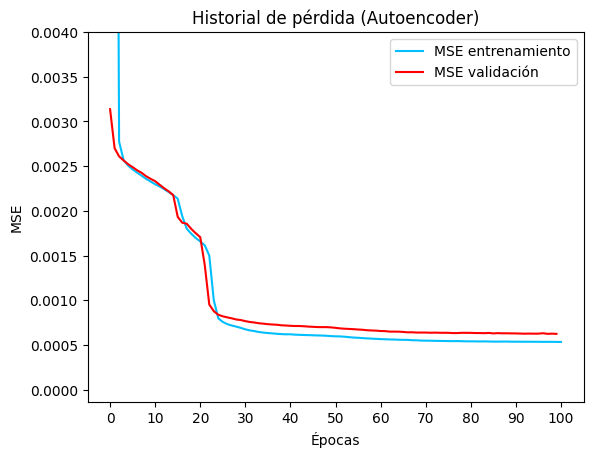
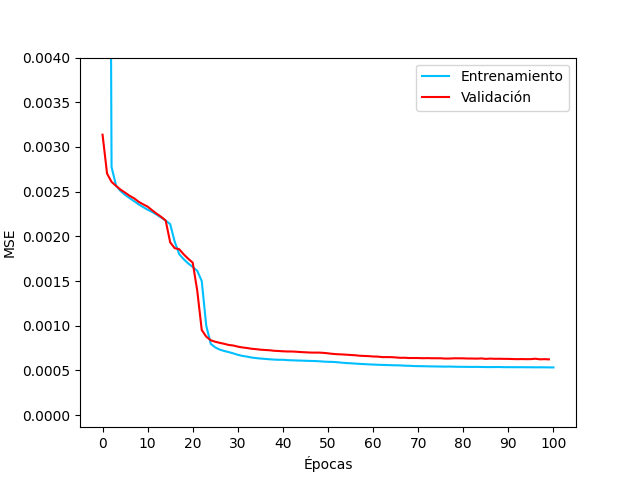
Se agregan descripciones al readme principal y descripciones al trabajo de deteccion de anomalias

Changed region(s): [[0.0, 0.0306, 1.0, 0.9803]]

diff --git a/DeteccionAnomalias_SistemasPlanetarios/Resultados.md b/DeteccionAnomalias_SistemasPlanetarios/Resultados.md
@@ -1,38 +1,33 @@
 ![](Images/portada.jpg)
-
-# Detección de anomalías de sistemas planetarios
-
-
+ Detección de anomalías de sistemas planetarios
 ---
-
+ 
 - [Detección de anomalías de sistemas planetarios](#detección-de-anomalías-de-sistemas-planetarios)
-  - [Introducción](#introducción)
-  - [Preprocesamiento](#preprocesamiento)
-  - [Análisis exploratorio](#análisis-exploratorio)
-    - [Histogramas](#histogramas)
-    - [Gráficas de dispersión](#gráficas-de-dispersión)
-  - [Selección de parámetros](#selección-de-parámetros)
-    - [IF y LOF](#if-y-lof)
-    - [Autodecodificador](#autodecodificador)
-  - [Resultados](#resultados)
-    - [Autodecodificador](#autodecodificador-1)
-    - [IF](#if)
-    - [LOF](#lof)
-    - [Anomalías detectadas](#anomalías-detectadas)
-  - [Conclusiones](#conclusiones)
+- [Introducción](#introducción)
+- [Preprocesamiento](#preprocesamiento)
+- [Análisis exploratorio](#análisis-exploratorio)
+  - [Histogramas](#histogramas)
+  - [Gráficas de dispersión](#gráficas-de-dispersión)
+- [Selección de parámetros](#selección-de-parámetros)
+  - [IF y LOF](#if-y-lof)
+  - [Autodecodificador](#autodecodificador)
+- [Resultados](#resultados)
+  - [Autodecodificador](#autodecodificador-1)
+  - [IF](#if)
+  - [LOF](#lof)
+  - [Anomalías detectadas](#anomalías-detectadas)
+- [Conclusiones](#conclusiones)
 
 ---
 
 ## Introducción
+
+
 Se importan el conjunto de datos proveniente de [https://exoplanetarchive.ipac.caltech.edu/docs/data.html ](https://exoplanetarchive.ipac.caltech.edu/docs/data.html). En este trabajo se realizará una detección de anomalías en las mediciones de los planetas mediante algoritmos de aprendizaje automático, entre los cuales se encuentran: 
 
 1. Isolation Forest (IF):
 2. Local Outlier Factor (LOF):
 3. Autodecodificadores: 
-
-
-
-
 
 
 ## Preprocesamiento
@@ -106,7 +101,7 @@ En lo que respecta al periodo orbital se muestra que el exoplaneta EPIC 24884749
 
 ### IF y LOF
 
-Los parámetros a escoger para trabajar con IF y LOF son el número de árboles de decisión y el número de vecinos respectivamente. Para determinar los valores adecuados se realizan las siguientes gráficas, dónde se muestran como varia el número de anomalías conforme el valor del respectivo parámetro cambia para determinar si existe alguna convergencia. 
+Los parámetros a escoger para trabajar con IF y LOF son el número de árboles de decisión y el número de vecinos respectivamente. Para determinar los valores adecuados se realizan las siguientes gráficas, dónde se muestran como varia el número de anomalías respecto al valor del variable a analizar, se espera determinar si existe alguna convergencia. 
 
 | ![](Imagenes/SeleccionParametros/Anomalias_vs_Trees.png) | ![](Imagenes/SeleccionParametros/Anomalias_vs_Vecinos.png) |
 | -------------------------------------------------------- | ---------------------------------------------------------- |
@@ -120,17 +115,16 @@ Al analizar la gráficas de convergencia se decide seleccionar 100 árboles de d
 
 ### Autodecodificador
 
-Una red autocodificadora recibe de entrada los datos a analizar, pasa por una serie de capas las cuales van disminuyendo gradualmente el número de neuronas para poder comprimir la información en un espacio latente, para luego descomprimirla en un proceso inverso. En la siguiente figura se esquematiza la arquitectura empleada para este trabajo, donde las capas son representadas mediante rectángulos azules dónde la parte superior indica el número de neuronas que poseen. Se emplearon funciones de activación *tanh* en las capas ocultas. Se usa MSE como función de pérdida. El espacio latente lo podemos emplear para la representación en dos dimensiones de nuestros datos.
+Una red autocodificadora recibe de entrada los datos a analizar, pasa por una serie de capas, las cuales van disminuyendo gradualmente el número de neuronas para poder comprimir la información en un espacio latente, para luego descomprimirla en un proceso inverso. En la siguiente figura se esquematiza la arquitectura empleada para este trabajo, las capas son representadas mediante rectángulos azules dónde la parte superior indica el número de neuronas que poseen. Se emplearon funciones de activación *tanh* en las capas ocultas. Se usa MSE como función de pérdida. El espacio latente lo podemos emplear para la representación en dos dimensiones de nuestros datos.
 
-Podemos usar una red autodecodificadora para detectar anomalias si consideramos aquellos datos que tengan mayor error al momento de la reconstrucción, es decir, a la red le costará más trabajo decodificar aquellos exoplanetas que no sean tan comunes, pues el conjunto de sus características no se presentan a menudo. 
-
+Podemos usar una red autodecodificadora para detectar anomalías si consideramos que aquellos datos que resulten más difícil de reconstruir, es decir los que cuenten con un alto valor de MSE, son anormales, es decir, a la red le costará más trabajo decodificar aquellos exoplanetas que no sean tan comunes, pues el conjunto de sus características no se presentan a menudo. 
 
 <p align="center">
   <img src="Imagenes/SeleccionParametros/Autoencoder.jpg" width="50%">
 </p>
 Para el entrenamiento:
 
-* 80 % de los datos se emplea para entrenamiento y 20% para pruebas.
+* 80 % de los datos se emplean para el entrenamiento y 20% para pruebas.
 * 100 épocas y un tamaño de batch de 32.
 
 
@@ -139,33 +133,46 @@ Para el entrenamiento:
 ## Resultados
 
 ### Autodecodificador
+Se nota el decremento del MSE con el
+pasar de las épocas.El modelo pudo superar
+2 mínimos locales de la función de
+pérdida.
+
 
 ![](Imagenes/SeleccionParametros/AutocodificadorEntrenamiento.png)
 
+El 95% de los datos se encuentran por debajo de un umbral de 0.0017, por lo que consideraremos como anomalos aquellos que superen este umbral. 
+
 ![](Imagenes/SeleccionParametros/MSE_Dispersionpng.png)
 
-Se representan los datos mediante el espacio latente del autocodificador y también con PCA.
-Se anotan algunas de las anomalías con MSE más alto.
-Las estructuras de PCA y el espacio latente parecen tener semejanza.
-EPIC 248847494 b aparece nuevamente.
+Para poder representar nuestros datos se utilizaran 2 métodos de reducción de dimensionalidad. El primero de ellos consiste en representar los datos mediante la salida del espacio latente del modelo (recordemos que este consta de 2 dimensiones). El segundo método para visualizar sera por componentes principales (PCA). 
+
+
 
 | ![](Imagenes/ReduccionDimensional/Autoencoder_Bottleneck.png) | ![](Imagenes/ReduccionDimensional/PCA_Test_Autoencoder.png) |
 | ------------------------------------------------------------- | ----------------------------------------------------------- |
-| (a)                                                           | (b)                                                         |
+| (a) Espacio latente del autodecodificador                                                        | (b) PCA                                              |
 
----
+
 
 ### IF
+En este caso el valores bajos de scoreIF indican que el dato es más anómalo. IF parece bien representado en ambos algoritmos de reducción de dimensionalidad. A pesar de no ser entrenado explícitamente con estos pares de coordenadas parece indicar que
+se fija en las regiones menos densas para seleccionar anomalías.
+
+
 | ![](Imagenes/ReduccionDimensional/Autoencoder_Test_scoreIF.png) | ![](Imagenes/ReduccionDimensional/PCA_Test_scoreIF.png) |
 | ------------------------------------------------------------- | ----------------------------------------------------------- |
-| (a)                                                           | (b)                                                         |
+| (a) Espacio latente del autodecodificador                                                           | (b) PCA                                                       |
 
 
 ### LOF
 
+Debido a que este algoritmo se basa en densidad y al existir 7 dimensiones en este conjunto de datos, las representaciones bidimensionales presentadas no parece mostrarse regiones preferenciales para las anomalias. Recordemos que cualquier algortimo de reducción de dimensionalidad, en ultima instancia, es una proyección de la realidad, por lo que es posible que los patrones que encontremos solo sean posibles notarlos en mayores dimensiones o desde una proyección distinta. Más sin embargo este método tambien encontró a EPIC 248847494 b como una anomalía. 
+
+
 | ![](Imagenes/ReduccionDimensional/Autoencoder_Test_scoreLOF.png) | ![](Imagenes/ReduccionDimensional/PCA_Test_scoreLOF.png) |
 | ------------------------------------------------------------- | ----------------------------------------------------------- |
-| (a)                                                           | (b)                                                         |
+| (a) Espacio latente del autodecodificador                                                           | (b) PCA                                                        |
 
 
 ### Anomalías detectadas
@@ -176,22 +183,14 @@ A continuación se muestra una gráfica de barras con el conteo de las anomalias
   <img src="Imagenes/ReduccionDimensional/AnomaliasDetectadas.png" width="50%">
 </p>
 
-Los 3 métodos detectaron tuvieron coincidencia en 79 planetas, entre los cuales se encuentran: Kepler-39 b, KELT-9 b, EPIC 248847494 b, KIC 9663113 b,HD 224018 d, Kepler-141 c, entre otros. A continuación se muestran las anomalias comunes de los 3 métodos represetnados en los espacios bidimensionales de PCA y el autodecodificador. 
+Los 3 métodos detectaron tuvieron coincidencia en 79 planetas, entre los cuales se encuentran: Kepler-39 b, KELT-9 b, EPIC 248847494 b, KIC 9663113 b,HD 224018 d, Kepler-141 c, entre otros. A continuación se muestran las anomalías comunes de los 3 métodos representados en los espacios bidimensionales de PCA y el autodecodificador. 
 
 | ![](Imagenes/ReduccionDimensional/PCA_Comunes.png) | ![](Imagenes/ReduccionDimensional/Autoencoder_Comunes.png) |
 | ------------------------------------------------------------- | ----------------------------------------------------------- |
 | (a)                                                           | (b)                                                         |
 
 ## Conclusiones
-Los análisis exploratorios nos pueden ayudar a darnos una idea si algún
-dato se encuentra fuera de lo común.
-Se pueden emplear los autocodificadores para detectar anomalías si nos
-enfocamos a analizar que tan bien se reconstruyen los datos. Mayores
-errores podría indicarnos la presencia de un dato extraño.
-Escoger la arquitectura lleva su reto, ya que no parece existir una “receta”
-que nos indique como armar un modelo. Se recomienda primero revisar en la
-literatura si existen redes empleadas para el fenómeno que se este
-analizando y no empezar desde cero.
-Los algoritmos de reducción de dimensionalidad parecen ser muy atractivos
-para representar datos pero siempre hay que tener en consideración que la
+Los análisis exploratorios nos pueden ayudar a darnos una idea si algún dato se encuentra fuera de lo común.
+Se pueden emplear los autocodificadores para detectar anomalías si nos enfocamos a analizar que tan bien se reconstruyen los datos. Mayores errores podría indicarnos la presencia de un dato extraño. Escoger la arquitectura lleva su reto, ya que no parece existir una “receta” que nos indique como armar un modelo. Se recomienda primero revisar en la literatura si existen redes empleadas para el fenómeno que se este analizando y no empezar desde cero.
+Los algoritmos de reducción de dimensionalidad parecen ser muy atractivos para representar datos pero siempre hay que tener en consideración que la
 salida de estos son una “sombra” de la realidad.

diff --git a/README.md b/README.md
@@ -5,6 +5,9 @@
 *Hello! Welcome to my project portfolio. Here you will find some of the work I have completed in courses related to data science, computer vision, machine learning, among others.*
 
 ## Índice
++ [Detección de anomalias en sistemas planetarios](https://github.com/AlexSalazar314/Portafolio/tree/main/DeteccionAnomalias_SistemasPlanetarios)
+   - En este trabajo se realizará una detección de anomalías en las mediciones de los planetas mediante algoritmos de aprendizaje automático, entre los cuales se encuentran Isolation Forest (IF), Local Outlier Factor (LOF) y Autodecodificadores. 
+
 + [Detección de fase cardíaca en ecocardiogramas de murinos (Clasificador de sístole y diástole)](https://github.com/AlexSalazar314/Portafolio/tree/main/ClasificacionFaseCardiaca)
    - En este trabajo se presenta la implementación de una red neuronal convolucional (CNN) para la clasificación de fases cardiacas (sistole y diástole) en ecocardiogramas de corazones de ratones de laboratorio. Los resultados en el conjunto de test final arrojan un AUC de 0.95, lo que demuestra que el modelo tiene una buena capacidad para distinguir entre las clases. 
 + [Redes neuronales para la predicción de series de tiempo. ](https://github.com/AlexSalazar314/Portafolio/tree/main/EscuelaDeInvierno_RedesNeuronales_SeriesDeTiempo_2026)
@@ -15,6 +18,8 @@
 
 ## Index
 
+* [Anomaly Detection in Planetary Systems](https://github.com/AlexSalazar314/Portafolio/tree/main/ClasificacionFaseCardiaca)
+   - In this project, anomalies in planetary measurements will be detected using machine learning algorithms, including Isolation Forest (IF), Local Outlier Factor (LOF), and Autoencoders.
 * [Cardiac Phase Detection in Murine Echocardiograms (Systole and Diastole Classifier)](https://github.com/AlexSalazar314/Portafolio/tree/main/ClasificacionFaseCardiaca)
 
   * This work presents the implementation of a Convolutional Neural Network (CNN) for the classification of cardiac phases (systole and diastole) in echocardiograms of laboratory mouse hearts. Results on the final test set achieve an AUC of 0.95, demonstrating that the model has a strong ability to distinguish between classes.
